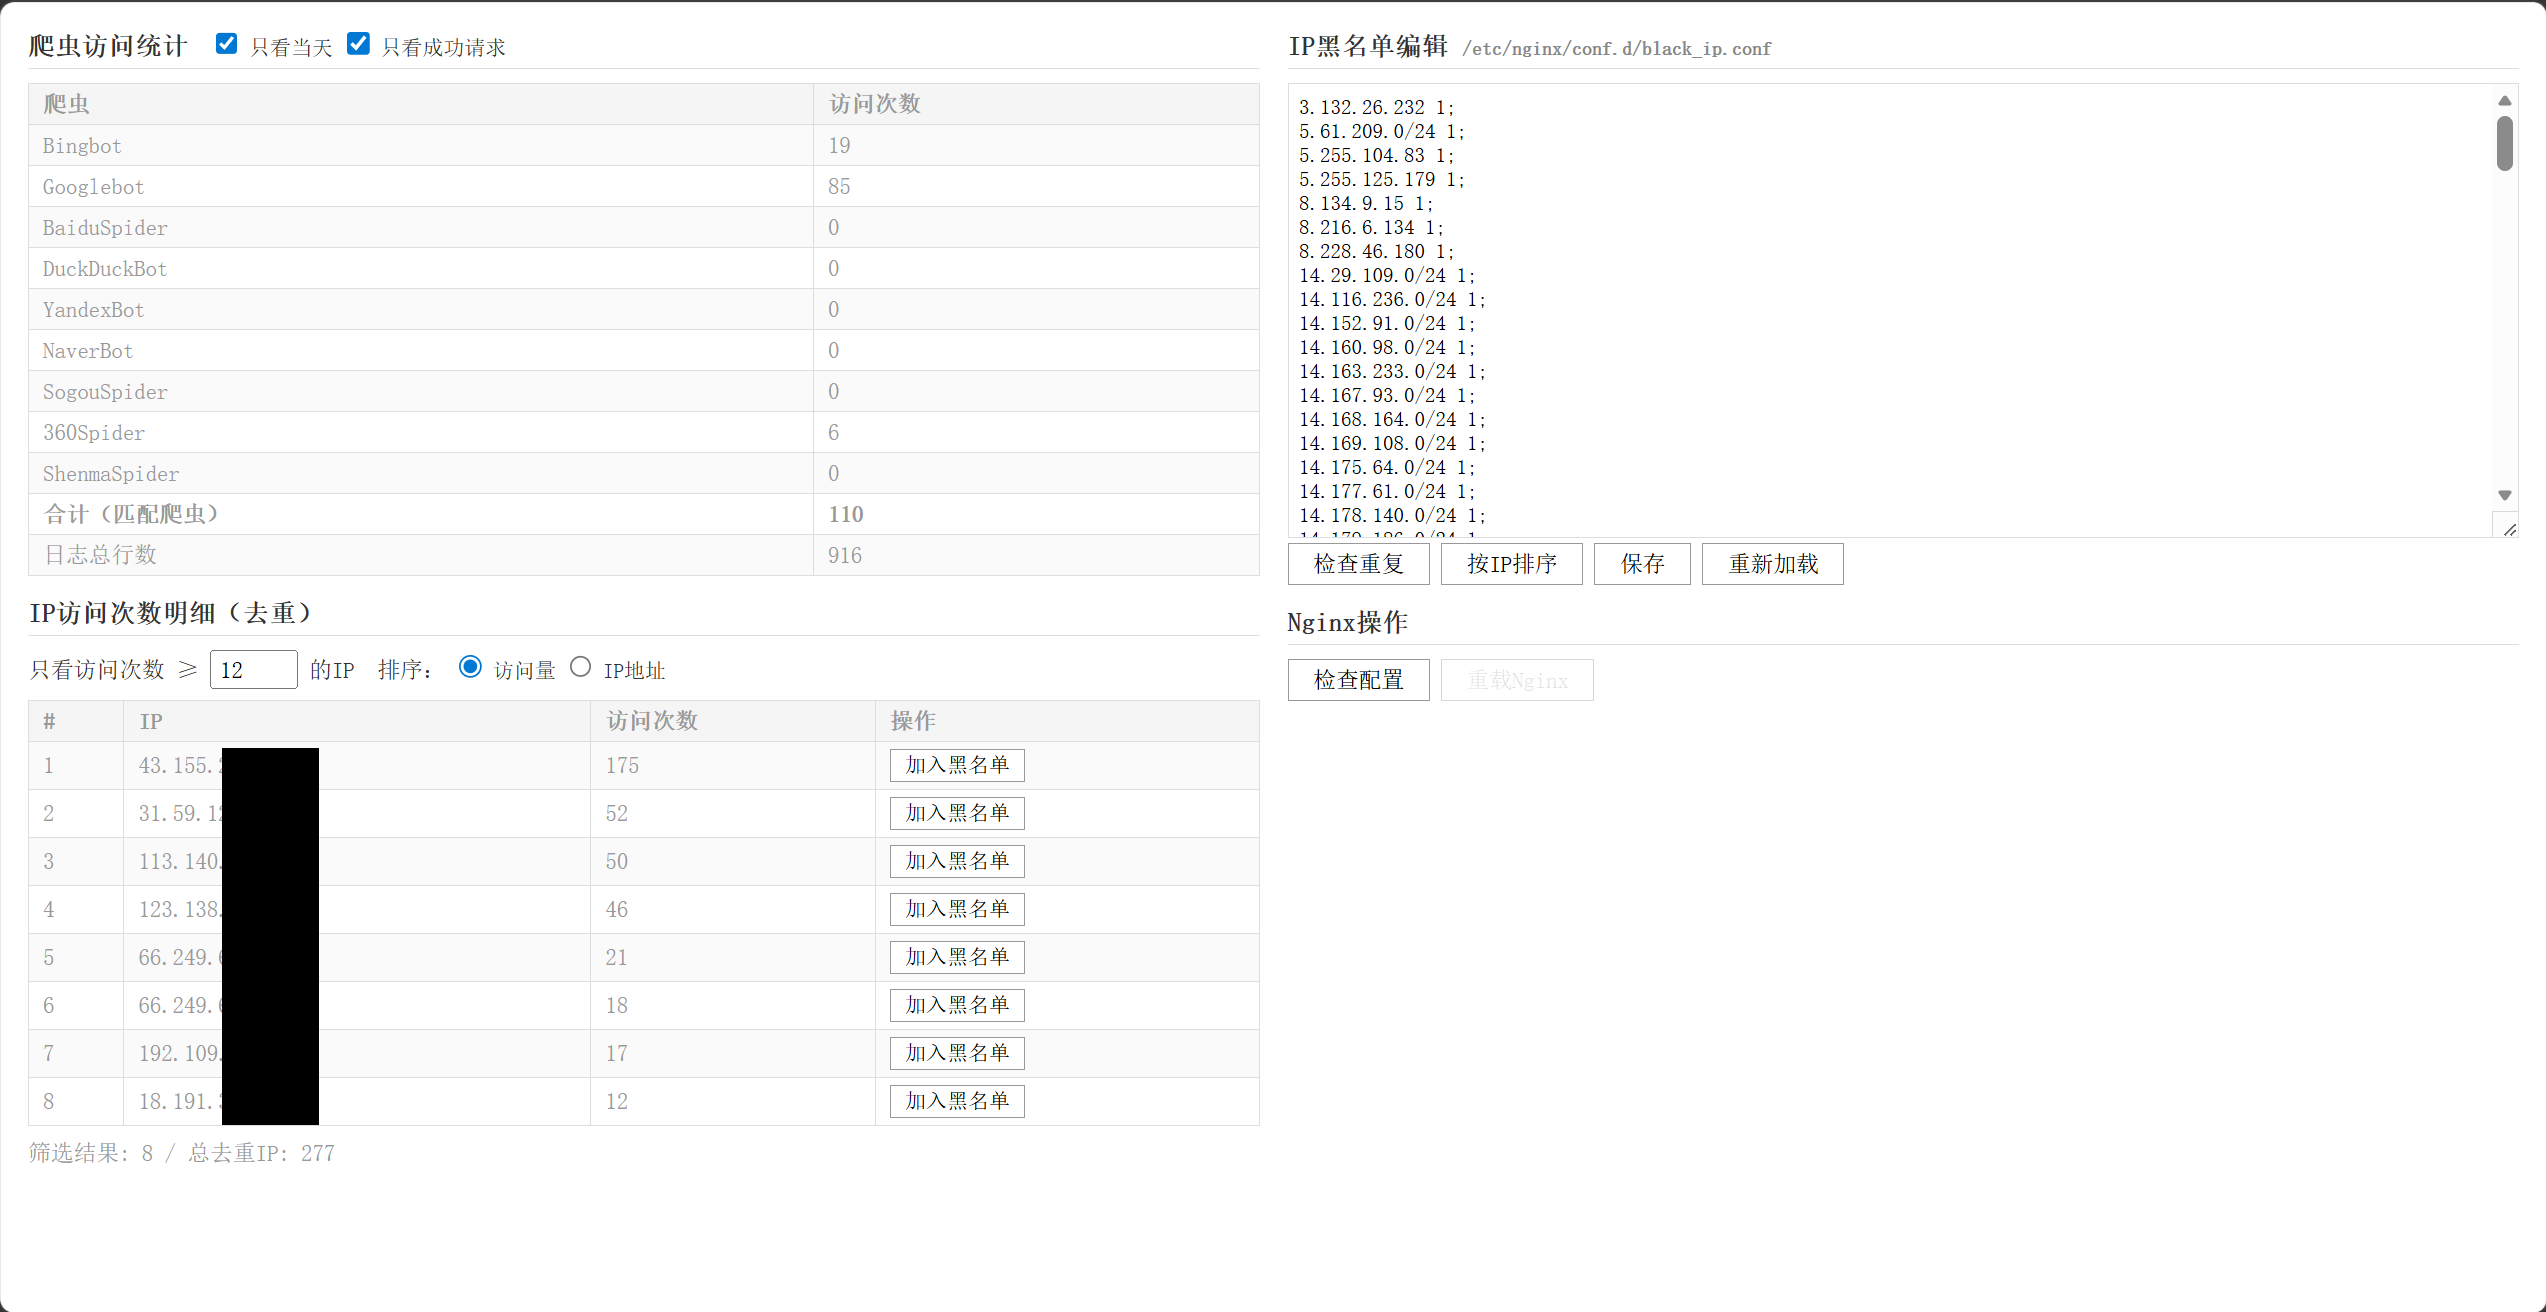
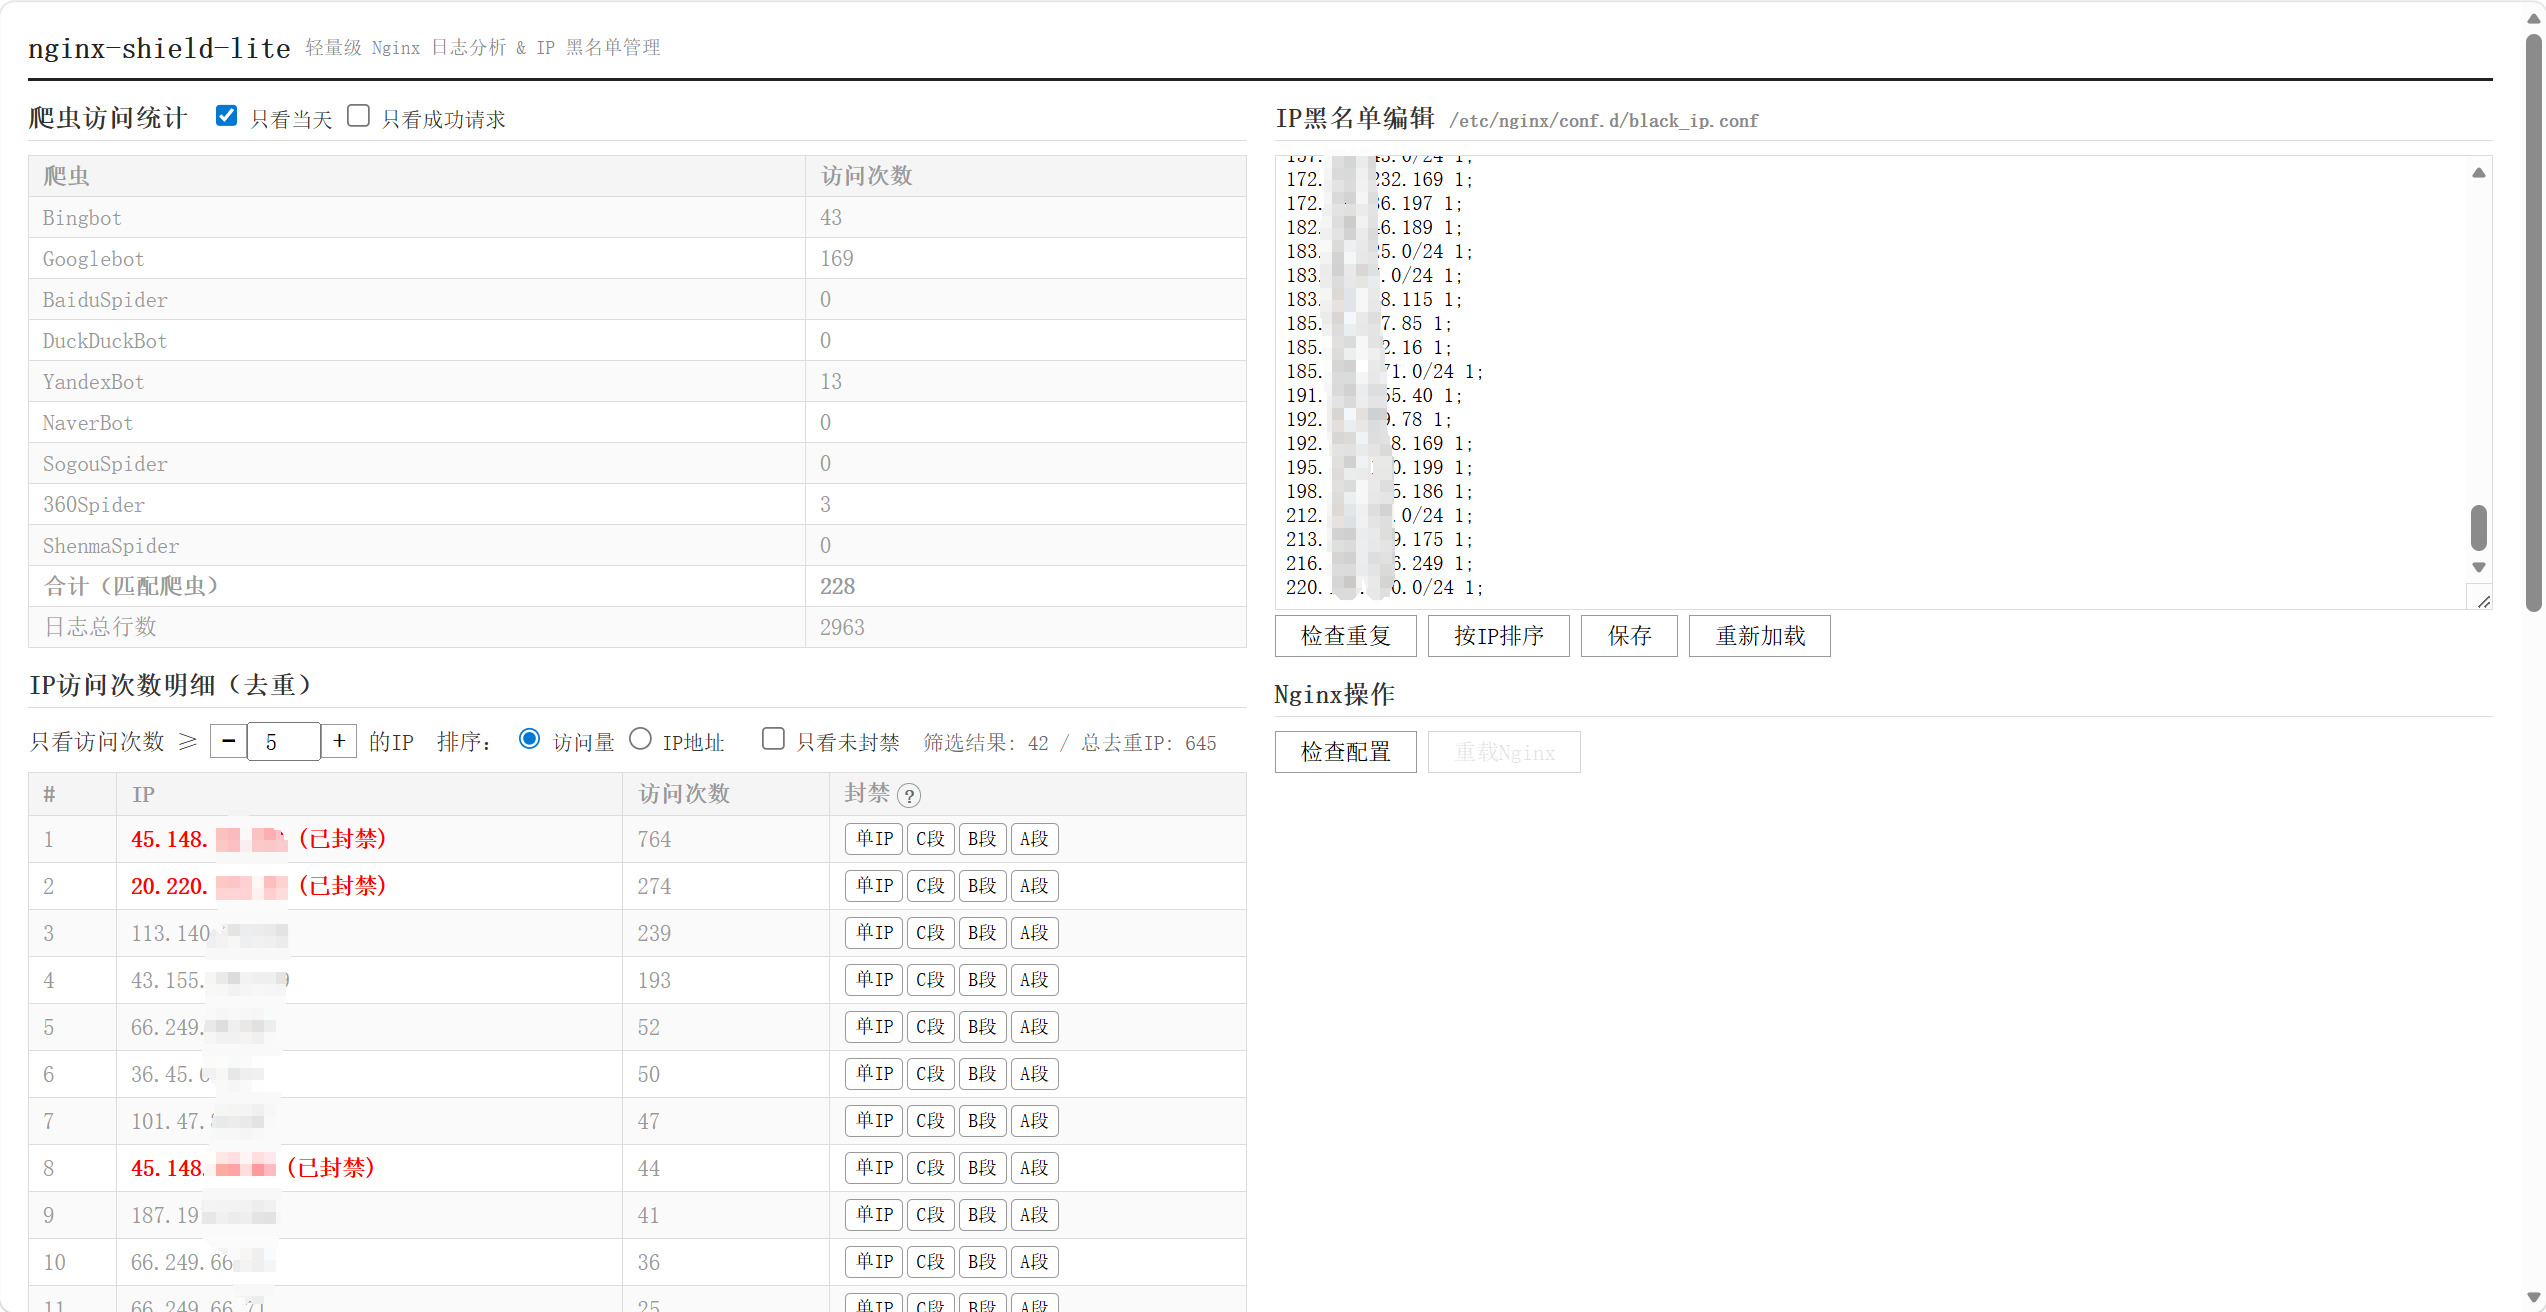
bug修复、手册优化

diff --git a/main.py b/main.py
@@ -98,8 +98,8 @@ function renderBot(data){
     document.getElementById('bot_stats').innerHTML=h;
 }
 
-function getCookie(k){const m=document.cookie.match(new RegExp('(?:^|;)\\s*'+k+'=([^;]*)'));return m?decodeURIComponent(m[1]):null}
-function setCookie(k,v){document.cookie=k+'='+encodeURIComponent(v)+';path=/;max-age=31536000'}
+function load(k){return localStorage.getItem('nsl_'+k)}
+function save(k,v){localStorage.setItem('nsl_'+k,v)}
 
 function ipSortKey(ip){return ip.split('/')[0].split('.').map(n=>n.padStart(3,'0')).join('')}
 
@@ -185,7 +185,7 @@ function loadStats(){
 function adjMin(delta){
     const el=document.getElementById('ip_min');
     el.value=Math.max(0,(parseInt(el.value)||0)+delta);
-    setCookie('ip_min',el.value);renderIP(allIPs);
+    save('ip_min',el.value);renderIP(allIPs);
 }
 
 function addBL(ip){
@@ -215,29 +215,29 @@ function addBLCIDR(ip,bits){
 }
 
 document.getElementById('ip_min').addEventListener('change',function(){
-    setCookie('ip_min',this.value);renderIP(allIPs);
+    save('ip_min',this.value);renderIP(allIPs);
 });
 document.getElementById('sort_count').addEventListener('change',function(){
-    setCookie('ip_sort','count');renderIP(allIPs);
+    save('ip_sort','count');renderIP(allIPs);
 });
 document.getElementById('sort_ip').addEventListener('change',function(){
-    setCookie('ip_sort','ip');renderIP(allIPs);
+    save('ip_sort','ip');renderIP(allIPs);
 });
 document.getElementById('today_only').addEventListener('change',function(){
-    setCookie('today_only',this.checked?'1':'0');loadStats();
+    save('today_only',this.checked?'1':'0');loadStats();
 });
 document.getElementById('success_only').addEventListener('change',function(){
-    setCookie('success_only',this.checked?'1':'0');loadStats();
+    save('success_only',this.checked?'1':'0');loadStats();
 });
 document.getElementById('unblocked_only').addEventListener('change',function(){
-    setCookie('unblocked_only',this.checked?'1':'0');renderIP(allIPs);
+    save('unblocked_only',this.checked?'1':'0');renderIP(allIPs);
 });
 (function(){
-    const v=getCookie('ip_min');if(v)document.getElementById('ip_min').value=v;
-    const so=getCookie('ip_sort');if(so==='ip'){document.getElementById('sort_ip').checked=true}
-    const t=getCookie('today_only');if(t==='1')document.getElementById('today_only').checked=true;
-    const s=getCookie('success_only');if(s==='1')document.getElementById('success_only').checked=true;
-    const u=getCookie('unblocked_only');if(u==='1')document.getElementById('unblocked_only').checked=true;
+    const v=load('ip_min');if(v)document.getElementById('ip_min').value=v;
+    const so=load('ip_sort');if(so==='ip'){document.getElementById('sort_ip').checked=true}
+    const t=load('today_only');if(t==='1')document.getElementById('today_only').checked=true;
+    const s=load('success_only');if(s==='1')document.getElementById('success_only').checked=true;
+    const u=load('unblocked_only');if(u==='1')document.getElementById('unblocked_only').checked=true;
 })();
 
 function loadBlacklist(){

diff --git a/README.md b/README.md
@@ -1,6 +1,6 @@
 # Nginx Shield Lite
 
-零依赖单 Python 文件 Web 应用，集成 Nginx 日志分析、爬虫识别、IP 黑名单管理功能。
+零依赖单 Python 极简 Web 应用，集成 Nginx 日志分析、爬虫识别、IP 黑名单管理功能。
 
 ![截图](preview.jpg)
 
@@ -21,7 +21,7 @@
 
 ### 1. 配置 Nginx
 
-在 `nginx.conf` 的 `http` 块中添加 geo 规则：
+在 `nginx.conf` 的 `http` 块中添加 geo 规则（nginx自带geo，无需安装插件）：
 
 ```nginx
 http {